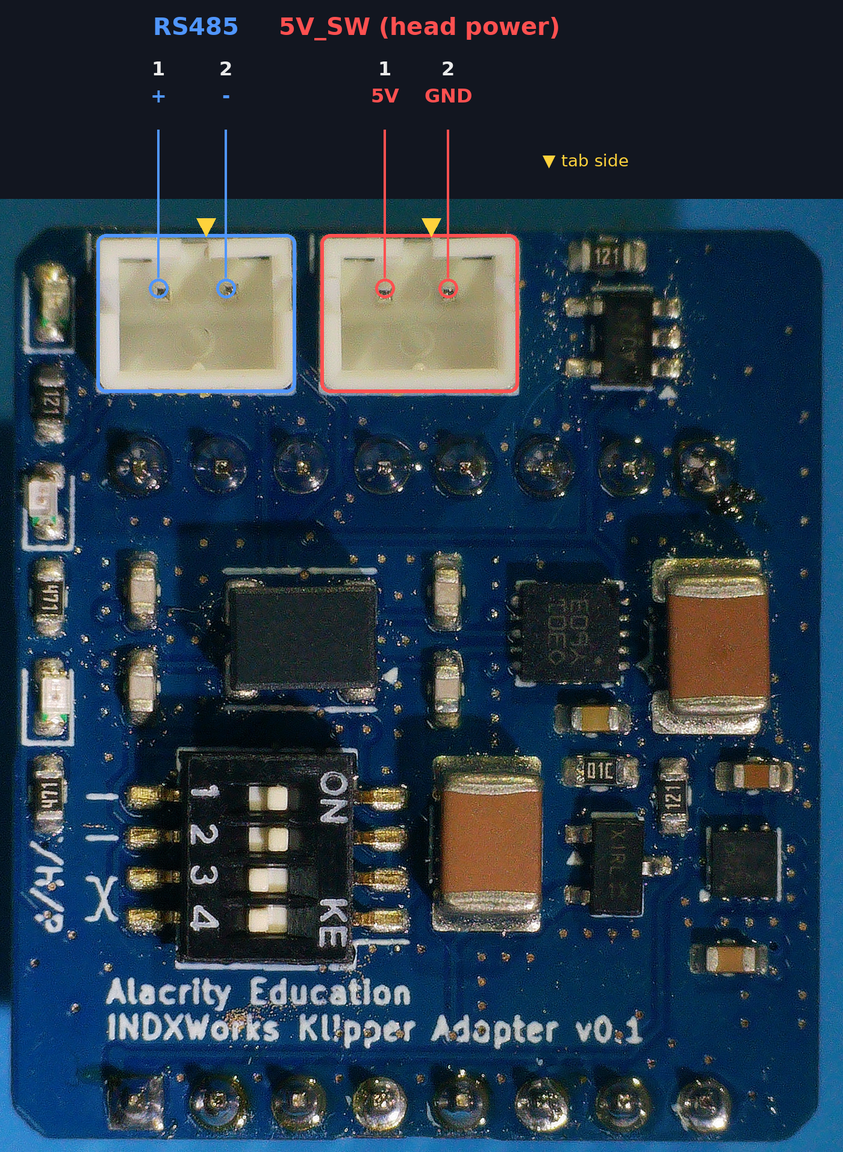
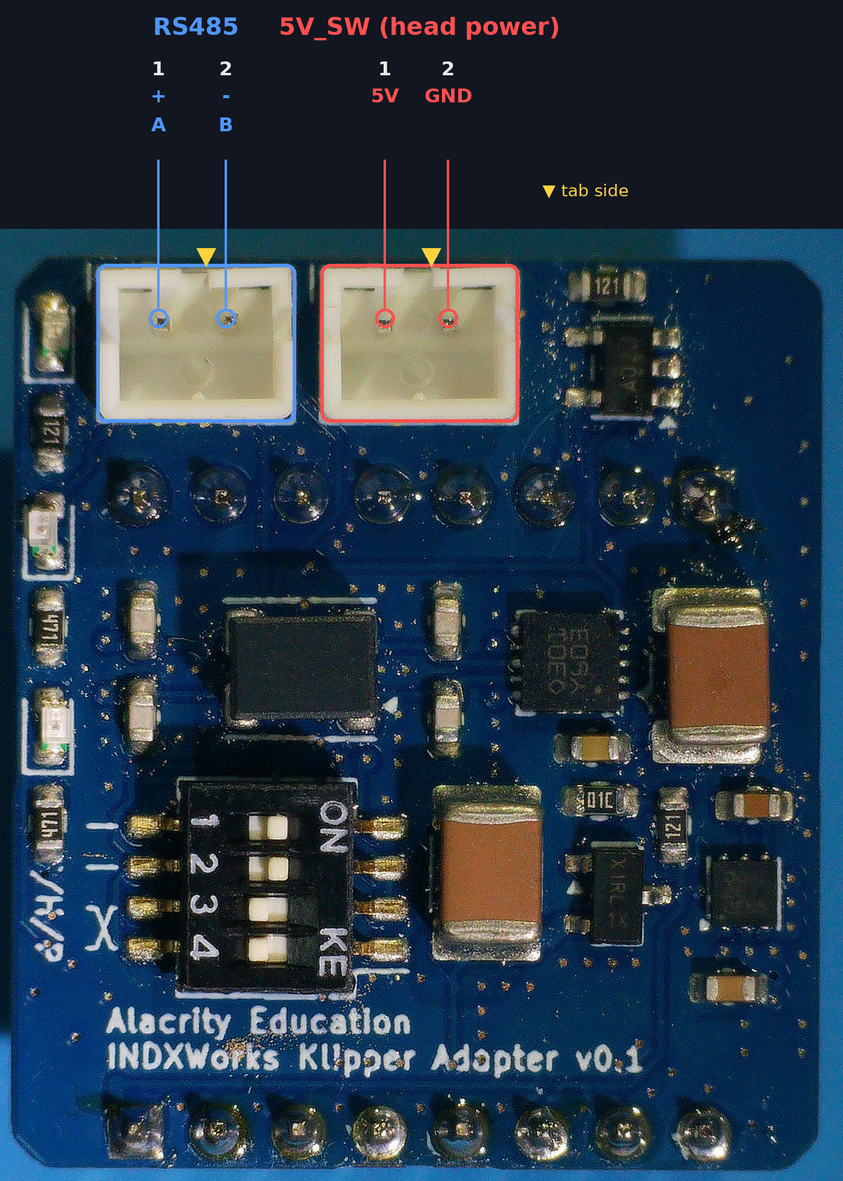
INDXWorx: RS485 +/- and A/B on the connector photo; head section uses it

diff --git a/INDXWorx/README.md b/INDXWorx/README.md
@@ -41,11 +41,7 @@ The board plugs into the Octopus WiFi socket. It uses these Octopus pins:
 
 ### Head
 
-- **RS485** (JST-PH, 2-pin): pin 1 `+`, pin 2 `-`.
-- **5V_SW** (JST-PH, 2-pin): pin 1 switched 5V, pin 2 GND.
-
-Pin 1 is on the left with the connectors at the top of the board, and the
-tab side faces the board edge (see the second gallery photo).
+![](images/indxworx-gallery-connectors.png)
 
 ## RS485 line swapper
 
